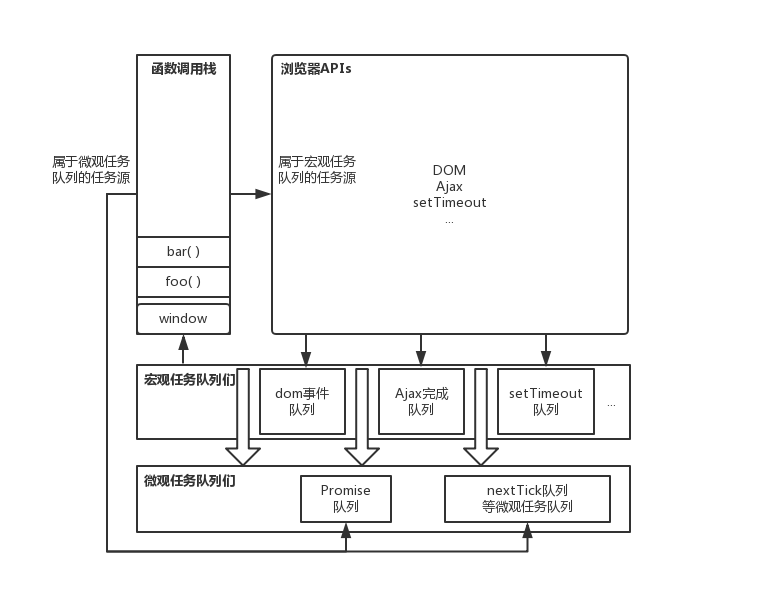
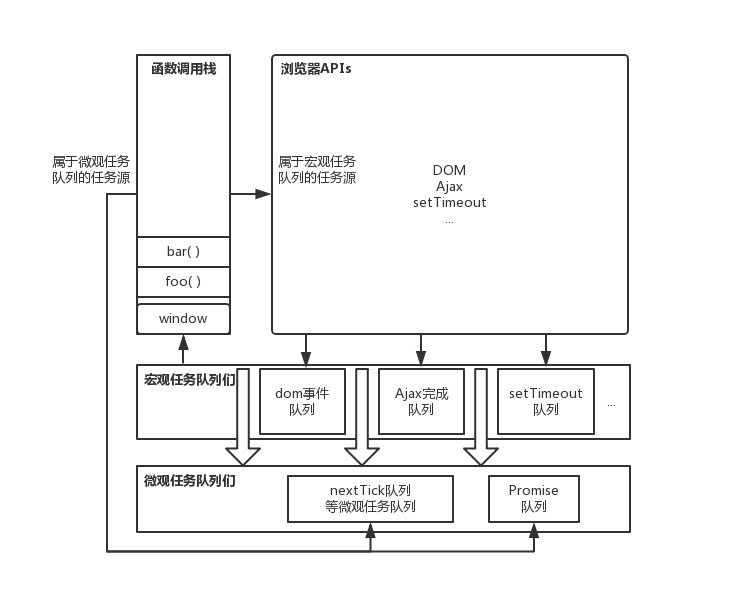
Site updated: 2017-11-01 21:18:24

Changed region(s): [[0.0617, 0.0905, 0.8633, 0.9347], [0.5241, 0.2714, 0.6475, 0.3618]]

diff --git a/blog/事件循环20171026/index.html b/blog/事件循环20171026/index.html
@@ -102,18 +102,19 @@
 
 
 
-<meta name="description" content="&amp;emsp;&amp;emsp;在网上找了很多事件循环和任务队列相关的文章，有些说的不是很清楚，看完感觉还是有些晕晕乎乎，所以写这篇博客把整体思路梳理一下。如果你有什么不同的理解，或是疑惑的地方，可以留言讨论。这里是我的github，欢迎来访，有喜欢的东西可以点个star支持一下。  事件循环与任务队列是JS中比较重要的两个概念。这两个概念在ES5和ES6两个标准中有不同的实现。尤其在ES6标准中，清楚的">
+<meta name="description" content="&amp;emsp;&amp;emsp;在网上找了很多事件循环和任务队列相关的文章，有些说的不是很清楚，看完感觉还是有些晕晕乎乎，所以写这篇博客把整体思路梳理一下。如果你有什么不同的理解，或是疑惑的地方，可以留言讨论。这里是我的github，欢迎来访。  事件循环与任务队列是JS中比较重要的两个概念。这两个概念在ES5和ES6两个标准中有不同的实现。尤其在ES6标准中，清楚的区分宏观任务队列和微观任务队列才能解释">
 <meta name="keywords" content="js,ES6">
 <meta property="og:type" content="article">
 <meta property="og:title" content="事件循环与任务队列">
 <meta property="og:url" content="https://kongchenglc.github.io/blog/事件循环20171026/index.html">
 <meta property="og:site_name" content="Kongcheng.LC">
-<meta property="og:description" content="&amp;emsp;&amp;emsp;在网上找了很多事件循环和任务队列相关的文章，有些说的不是很清楚，看完感觉还是有些晕晕乎乎，所以写这篇博客把整体思路梳理一下。如果你有什么不同的理解，或是疑惑的地方，可以留言讨论。这里是我的github，欢迎来访，有喜欢的东西可以点个star支持一下。  事件循环与任务队列是JS中比较重要的两个概念。这两个概念在ES5和ES6两个标准中有不同的实现。尤其在ES6标准中，清楚的">
+<meta property="og:description" content="&amp;emsp;&amp;emsp;在网上找了很多事件循环和任务队列相关的文章，有些说的不是很清楚，看完感觉还是有些晕晕乎乎，所以写这篇博客把整体思路梳理一下。如果你有什么不同的理解，或是疑惑的地方，可以留言讨论。这里是我的github，欢迎来访。  事件循环与任务队列是JS中比较重要的两个概念。这两个概念在ES5和ES6两个标准中有不同的实现。尤其在ES6标准中，清楚的区分宏观任务队列和微观任务队列才能解释">
 <meta property="og:image" content="https://kongchenglc.github.io/imgs/sjxh.png">
-<meta property="og:updated_time" content="2017-11-01T09:18:46.370Z">
+<meta property="og:image" content="https://kongchenglc.github.io/imgs/rwdl.png">
+<meta property="og:updated_time" content="2017-11-01T13:18:05.261Z">
 <meta name="twitter:card" content="summary">
 <meta name="twitter:title" content="事件循环与任务队列">
-<meta name="twitter:description" content="&amp;emsp;&amp;emsp;在网上找了很多事件循环和任务队列相关的文章，有些说的不是很清楚，看完感觉还是有些晕晕乎乎，所以写这篇博客把整体思路梳理一下。如果你有什么不同的理解，或是疑惑的地方，可以留言讨论。这里是我的github，欢迎来访，有喜欢的东西可以点个star支持一下。  事件循环与任务队列是JS中比较重要的两个概念。这两个概念在ES5和ES6两个标准中有不同的实现。尤其在ES6标准中，清楚的">
+<meta name="twitter:description" content="&amp;emsp;&amp;emsp;在网上找了很多事件循环和任务队列相关的文章，有些说的不是很清楚，看完感觉还是有些晕晕乎乎，所以写这篇博客把整体思路梳理一下。如果你有什么不同的理解，或是疑惑的地方，可以留言讨论。这里是我的github，欢迎来访。  事件循环与任务队列是JS中比较重要的两个概念。这两个概念在ES5和ES6两个标准中有不同的实现。尤其在ES6标准中，清楚的区分宏观任务队列和微观任务队列才能解释">
 <meta name="twitter:image" content="https://kongchenglc.github.io/imgs/sjxh.png">
 
 
@@ -389,7 +390,7 @@
       
 
       
-        <p>&emsp;&emsp;在网上找了很多事件循环和任务队列相关的文章，有些说的不是很清楚，看完感觉还是有些晕晕乎乎，所以写这篇博客把整体思路梳理一下。如果你有什么不同的理解，或是疑惑的地方，可以留言讨论。<a href="">这里是我的github</a>，欢迎来访，有喜欢的东西可以点个<code>star</code>支持一下。</p>
+        <p>&emsp;&emsp;在网上找了很多事件循环和任务队列相关的文章，有些说的不是很清楚，看完感觉还是有些晕晕乎乎，所以写这篇博客把整体思路梳理一下。如果你有什么不同的理解，或是疑惑的地方，可以留言讨论。<a href="https://github.com/kongchenglc/learn-ES6/blob/master/EventLoop.md" target="_blank" rel="external">这里是我的github</a>，欢迎来访。</p>
 <blockquote>
 <p>事件循环与任务队列是<code>JS</code>中比较重要的两个概念。这两个概念在<code>ES5</code>和<code>ES6</code>两个标准中有<strong>不同的实现</strong>。尤其在<code>ES6</code>标准中，清楚的区分<strong>宏观任务队列</strong>和<strong>微观任务队列</strong>才能解释<code>Promise</code>一些看似奇怪的表现。</p>
 </blockquote>
@@ -397,7 +398,7 @@
 <h2 id="事件循环"><a href="#事件循环" class="headerlink" title="事件循环"></a>事件循环</h2><p>&emsp;&emsp;事件循环是什么？为什么要有事件循环这个东西？我们都知道<code>JS</code>是单线程的，但是像<code>Ajax</code>，或是<code>DOM</code>事件这种很耗时的操作，需要用并发处理，否则单线程会长时间等待，什么也做不了。而单线程循环就是<strong>并发的一种形式</strong>，一个线程中只有<strong>一个</strong>事件循环。而任务队列是用来配合事件循环完成操作的，一个线程可以拥有<strong>多个</strong>任务队列。</p>
 <h2 id="任务队列"><a href="#任务队列" class="headerlink" title="任务队列"></a>任务队列</h2><p>&emsp;&emsp;任务队列是什么？故名思意，排着任务的队列。所谓任务是<code>WebAPIs</code>返回的一个个通知，让<code>JS</code>主线程在读取任务队列的时候得知这个异步任务已经完成，下一步该执行这个任务的回调函数了。主线程拥有多个任务队列，不同的任务队列用来排列来自不同<strong>任务源</strong>的任务。任务源是什么？像setTimeout/Promise/DOM事件等都是任务源，来自同类任务源的任务我们称它们是<strong>同源</strong>的，比如setTimeout与setInterval就是同源的。在<code>ES6</code>标准中任务队列又分为<strong>宏观任务队列</strong>和<strong>微观任务队列</strong>，我们后边再详细讨论。</p>
 <p>下面先通俗的讲述一下<strong>ES5</strong>中事件循环到底是怎么循环的，如图（据<a href="http://www.ruanyifeng.com/blog/2014/10/event-loop.html" target="_blank" rel="external">阮一峰前辈的教程</a>）：  </p>
-<p><img src="/imgs/sjxh.png" alt="事件循环"></p>
+<p><img src="/imgs/sjxh.png" alt="事件循环1"></p>
 <p>图中有三大块：  </p>
 <ul>
 <li>函数调用栈：即执行栈。</li>
@@ -412,8 +413,38 @@
 <li>每访问一个队列，执行栈会<strong>执行完</strong>这个任务队列的所有的代码，然后再取下一个任务队列需要执行的的代码。如果在执行中遇到了当前属于任务队列的异步任务时。此次任务的返回不会直接排到当前任务队列之后。因为这属于两次不同的事件循环，会被区分开来。</li>
 </ol>
 <p>就这样循环执行，直到三大块全为空，这称为<strong>事件循环</strong>。</p>
-<h3 id="微观任务队列"><a href="#微观任务队列" class="headerlink" title="微观任务队列"></a>微观任务队列</h3><p>&emsp;&emsp;<code>ES6</code>标准中任务队列存在两种类型，一种就是上边提到的一些队列，比如<code>setTimeout</code>、网络请求<code>Ajax</code>、用户<code>I\O</code>等都属于宏观任务队列（microtask queue），另一种是微观任务队列（macrotask queue），<code>Promise</code>就属于微观任务队列。  </p>
-
+<h3 id="微观任务队列"><a href="#微观任务队列" class="headerlink" title="微观任务队列"></a>微观任务队列</h3><p>&emsp;&emsp;<code>ES6</code>标准中任务队列存在两种类型，一种就是上边提到的一些队列，比如<code>setTimeout</code>、网络请求<code>Ajax</code>、用户<code>I\O</code>等都属于宏观任务队列（microtask queue），另一种是微观任务队列（macrotask queue），<code>Promise</code>就属于微观任务队列。<br>&emsp;&emsp;添加了微观任务队列之后事件循环有什么变化呢？在执行栈执行的过程中会把属于微观任务队列的任务分配到相应的<strong>微观任务队列</strong>中去。而在调用栈执行空之后，主线程读取任务队列时，会先读取<strong>所有微观任务队列</strong>，然后读取<strong>一个宏观任务队列</strong>，<strong>再读取所有的微观任务队列</strong>。如图：</p>
+<p><img src="/imgs/rwdl.png" alt="事件循环2"></p>
+<p>&emsp;&emsp;好了，说了很多概念上的东西，不如一段代码来的清晰：<br><figure class="highlight javascript"><table><tr><td class="gutter"><pre><div class="line">1</div><div class="line">2</div><div class="line">3</div><div class="line">4</div><div class="line">5</div><div class="line">6</div><div class="line">7</div><div class="line">8</div><div class="line">9</div><div class="line">10</div><div class="line">11</div></pre></td><td class="code"><pre><div class="line">setTimeout(<span class="function"><span class="keyword">function</span>(<span class="params"></span>)</span>&#123;<span class="built_in">console</span>.log(<span class="number">4</span>)&#125;,<span class="number">0</span>);</div><div class="line"><span class="keyword">new</span> <span class="built_in">Promise</span>(<span class="function"><span class="keyword">function</span>(<span class="params">resolve</span>)</span>&#123;</div><div class="line">    <span class="built_in">console</span>.log(<span class="number">1</span>)</div><div class="line">    <span class="keyword">for</span>( <span class="keyword">var</span> i=<span class="number">0</span> ; i&lt;<span class="number">10000</span> ; i++ )&#123;</div><div class="line">        i==<span class="number">9999</span> &amp;&amp; resolve()</div><div class="line">    &#125;</div><div class="line">    <span class="built_in">console</span>.log(<span class="number">2</span>)</div><div class="line">&#125;).then(<span class="function"><span class="keyword">function</span>(<span class="params"></span>)</span>&#123;</div><div class="line">    <span class="built_in">console</span>.log(<span class="number">5</span>)</div><div class="line">&#125;);</div><div class="line"><span class="built_in">console</span>.log(<span class="number">3</span>);</div></pre></td></tr></table></figure></p>
+<ul>
+<li>脚本开始执行，最先遇到<code>setTimeout</code>，交给浏览器去计时，达到<code>setTimeout</code>限制最短计时之后，把这个任务推入<code>setTimeout</code>队列。</li>
+<li>遇到<code>Promise</code>构造函数，构造函数参数执行，输出<code>1</code>，调用<code>resolve</code>改变<code>Promise</code>对象的状态，然后输出<code>2</code>。</li>
+<li><code>Promise</code>对象调用<code>then</code>方法，将这个任务推入<code>Promise</code>任务队列。</li>
+<li>执行<code>console.log(3)</code>，输出<code>3</code>。</li>
+<li>调用栈为空，读取任务队列，按照<br>  <em>读取所有微观任务队列</em> -&gt; <em>执行</em> -&gt;<br>  <em>读取一个宏观任务队列</em> -&gt; <em>执行</em> -&gt;<br>  <em>读取所有微观任务队列</em> -&gt; <em>执行</em> -&gt;<br>  <em>再读取一个宏观任务队列</em>…的顺序。  </li>
+<li>读取所有微观任务队列中的任务，执行这些任务指定的回调函数。执行<code>then</code>指定的回调函数，输出<code>5</code>（微观任务队列也具有优先级）。</li>
+<li>最后读取到<code>setTimeout</code>的任务，执行回调函数，输出<code>4</code>。</li>
+</ul>
+<p>&emsp;&emsp;所以最后的输出顺序是<code>1,2,3,5,4</code>，而不是<code>1,2,3,4,5</code>。如果不清楚微观任务队列的执行机制，很容易将两个异步任务归为一类，将执行顺序判断错误。</p>
+<blockquote>
+<p>到这里算是把事件循环和任务队列说的比较清楚了，参考了很多大佬的博客与讨论：<br><a href="http://www.ruanyifeng.com/blog/2014/10/event-loop.html" target="_blank" rel="external">http://www.ruanyifeng.com/blog/2014/10/event-loop.html</a><br><a href="https://www.zhihu.com/question/36972010" target="_blank" rel="external">https://www.zhihu.com/question/36972010</a><br><a href="http://www.jianshu.com/p/12b9f73c5a4f" target="_blank" rel="external">http://www.jianshu.com/p/12b9f73c5a4f</a><br><a href="http://www.cnblogs.com/hity-tt/p/6733062.html" target="_blank" rel="external">http://www.cnblogs.com/hity-tt/p/6733062.html</a>  </p>
+</blockquote>
+<p>&emsp;&emsp;如果你有不同的理解请到博客下方留言，<a href="https://github.com/kongchenglc" target="_blank" rel="external">这是我的github</a>，欢迎来访，你的<code>star</code>就是我的动力。</p>
+<p><br><br></p>
+<p><div id="container"></div></p>
+<p><link rel="stylesheet" href="https://imsun.github.io/gitment/style/default.css"></p>
+<script src="https://imsun.github.io/gitment/dist/gitment.browser.js"></script>
+<script>
+var gitment = new Gitment({
+  owner: 'kongchenglc',
+  repo: 'kongchenglc.github.io',
+  oauth: {
+    client_id: '7dbff17e5f4c6ed576df',
+    client_secret: '4dfa357fe3a76e38ce1fd63eb285b5f21307106e',
+  },
+})
+gitment.render('container');
+</script>
       
     </div>
 

diff --git a/index.html b/index.html
@@ -391,7 +391,7 @@
 
       
         
-          <p>&emsp;&emsp;在网上找了很多事件循环和任务队列相关的文章，有些说的不是很清楚，看完感觉还是有些晕晕乎乎，所以写这篇博客把整体思路梳理一下。如果你有什么不同的理解，或是疑惑的地方，可以留言讨论。<a href="">这里是我的github</a>，欢迎来访，有喜欢的东西可以点个<code>star</code>支持一下。</p>
+          <p>&emsp;&emsp;在网上找了很多事件循环和任务队列相关的文章，有些说的不是很清楚，看完感觉还是有些晕晕乎乎，所以写这篇博客把整体思路梳理一下。如果你有什么不同的理解，或是疑惑的地方，可以留言讨论。<a href="https://github.com/kongchenglc/learn-ES6/blob/master/EventLoop.md">这里是我的github</a>，欢迎来访。</p>
 <blockquote>
 <p>事件循环与任务队列是<code>JS</code>中比较重要的两个概念。这两个概念在<code>ES5</code>和<code>ES6</code>两个标准中有<strong>不同的实现</strong>。尤其在<code>ES6</code>标准中，清楚的区分<strong>宏观任务队列</strong>和<strong>微观任务队列</strong>才能解释<code>Promise</code>一些看似奇怪的表现。</p>
 </blockquote>
